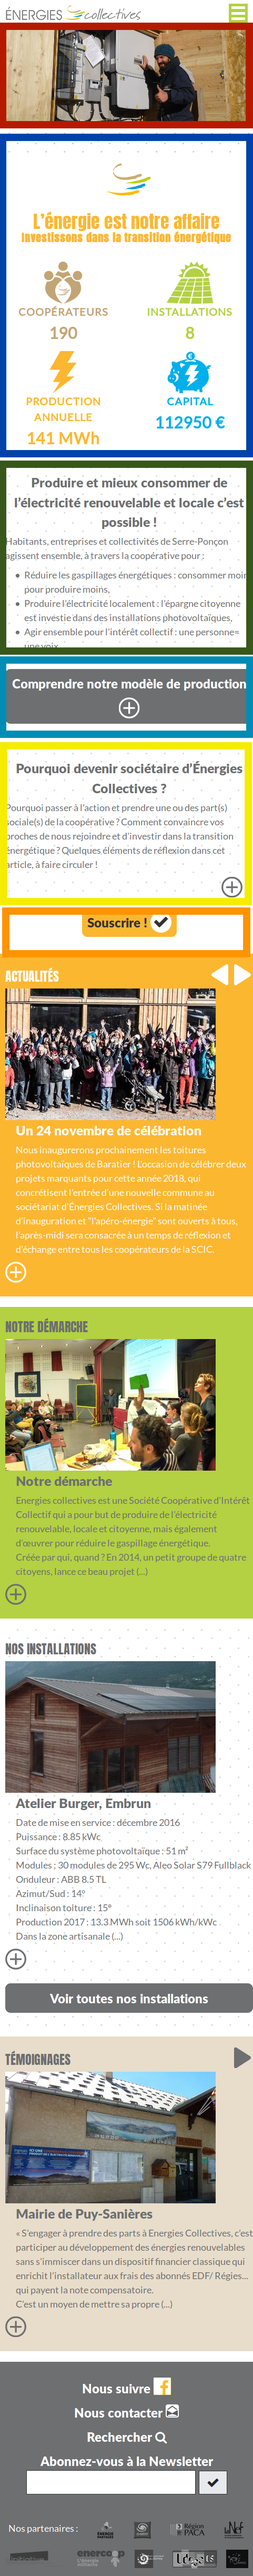
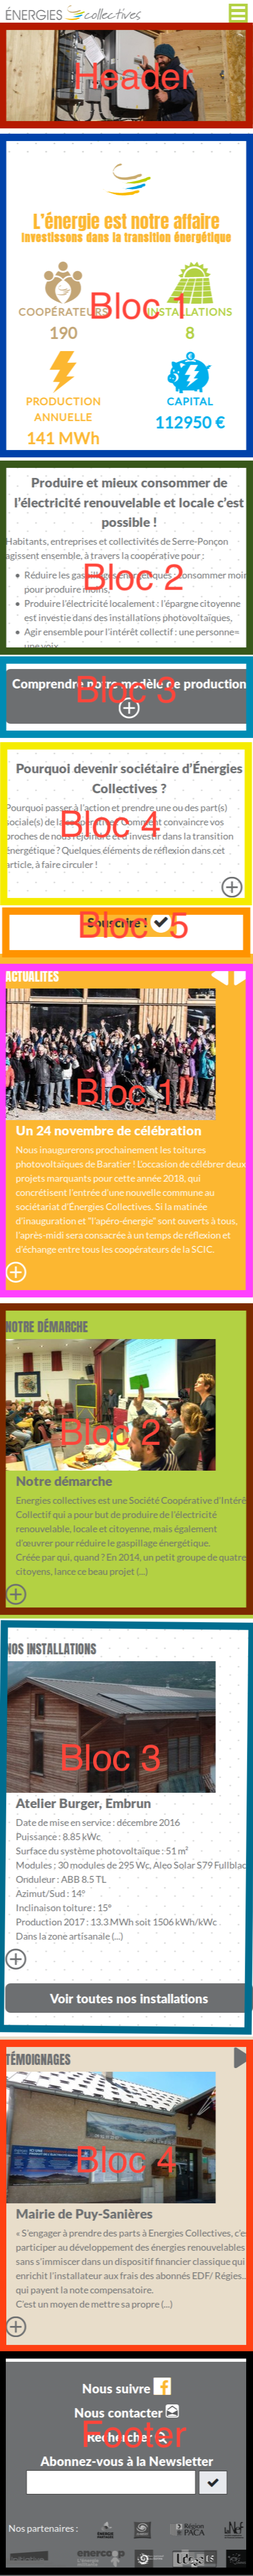
Correction beug hauteur MAIN + responsive entier du main ok + responsive bloc actualité ok

diff --git a/css/style.scss b/css/style.scss
@@ -4,10 +4,15 @@ $header_heightDesktop: 350px;
 $bloc1_heightDesktop: 400px;
 $bloc2_heightDesktop: 300px;
 $bloc3_heightDesktop: 100px;
+$bloc4_heightDesktop: 300px;
+$bloc5_heightDesktop: 100px;
+$bloc1-article_heightDesktop: 350px; 
 /* ------- STYLE POUR ECRAN TAILLE SMALL: min-width:0px ------- */
 @include respond-to("small") {
+
+/* --- HEADER --- */
     header{
-        
+
         min-height: 150px;
         max-height: $header_heightDesktop;
         height: 50vw;
@@ -17,9 +22,9 @@ $bloc3_heightDesktop: 100px;
             background-color: green;
         }
     }
+/* --- MAIN --- */
     .main{
         height: auto;
-        height: 250px;
 
         .contain{
             background-color: yellow;
@@ -52,11 +57,10 @@ $bloc3_heightDesktop: 100px;
             }
         }
 
-        //Bloc 3: Section CTA "Comprendre notre modèle de production"
+        //Bloc 3: Bouton CTA "Comprendre notre modèle de production"
         .bloc:nth-child(3) {
             background-color: paleturquoise;
-            height: 30vw;
-            //min-height: 10px;     
+            height: 30vw;   
             max-height: $bloc3_heightDesktop;
             
             // /!\ Uniquement afin de voir visuellement les blocs - à retirer /!\
@@ -65,11 +69,48 @@ $bloc3_heightDesktop: 100px;
                 height: 100%;
             }
         }
-
-
-
-        
+        //Bloc 4: Pourquoi devenir sociétaire
+        .bloc:nth-child(4) {
+            background-color: #FCFF6C;
+            height: 80vw;  
+            max-height: $bloc4_heightDesktop;
+            
+            // /!\ Uniquement afin de voir visuellement les blocs - à retirer /!\
+            .contain{
+                background-color: #FCFF6C;
+                height: 100%;
+            }
+        }
+        //Bloc 5: Bouton CTA "souscrire"
+        .bloc:nth-child(5) {
+            background-color: orange;
+            height: 30vw;
+            //min-height: 10px;     
+            max-height: $bloc5_heightDesktop;
+            
+            // /!\ Uniquement afin de voir visuellement les blocs - à retirer /!\
+            .contain{
+                background-color: orange;
+                height: 100%;
+            }
+        }    
     }
+/* --- ARTICLES --- */
+.articles{
+    .bloc:nth-child(1) {
+        background-color: blue;
+        //Hauteur en fonction width viewport et ses limites
+        height: 80vw;
+        min-height: 300px;
+        max-height: $bloc1-article_heightDesktop;
+        // /!\ Uniquement afin de voir visuellement les blocs - à retirer /!\
+        .contain{
+            background-color: blue;
+            height: 100%;
+        }            
+    }
+}
+
 }
 /* ------- STYLE POUR ECRAN TAILLE MEDIUM ------- */
 @include respond-to("medium") {
@@ -116,12 +157,22 @@ $bloc3_heightDesktop: 100px;
             }
         }
         .bloc:nth-child(4) {
-            background-color: yellow;
-            height: 100px;
+            background-color: #FCFF6C;
+            height: $bloc4_heightDesktop;
+            // /!\ Uniquement afin de voir visuellement les blocs - à retirer /!\
+            .contain{
+                background-color: yellow;
+                height: 100%;
+            }
         }
         .bloc:nth-child(5) {
             background-color: orange;
-            height: 50px;
+            height: $bloc5_heightDesktop;
+            // /!\ Uniquement afin de voir visuellement les blocs - à retirer /!\
+            .contain{
+                background-color: yellow;
+                height: 100%;
+            }
         }
     }
     .articles {
@@ -130,7 +181,7 @@ $bloc3_heightDesktop: 100px;
         //Contient le contenu
         .contain {
             background-color: red;
-            width: 65%;
+            max-width: map-get($breakpoints,medium);
             height: 100%;
             margin: 0 auto;
         }
@@ -141,7 +192,12 @@ $bloc3_heightDesktop: 100px;
         //Bloc 1: Actualités
         .bloc:nth-child(1) {
             background-color: blue;
-            height: 300px;
+            height: $bloc1-article_heightDesktop;
+            // /!\ Uniquement afin de voir visuellement les blocs - à retirer /!\
+            .contain{
+                background-color: yellow;
+                height: 100%;
+            }
         }
         //Bloc 2: Notre démarche
         .bloc:nth-child(2) {

diff --git a/css/style.css b/css/style.css
@@ -107,6 +107,7 @@ input[type='checkbox']:checked ~ nav {
 /* ------- MIXIN RACCOURCIS ------- */
 /* ------- STYLE POUR ECRAN TAILLE SMALL: min-width:0px ------- */
 @media (min-width: 0px) {
+  /* --- HEADER --- */
   header {
     min-height: 150px;
     max-height: 350px;
@@ -117,9 +118,9 @@ input[type='checkbox']:checked ~ nav {
     height: 40px;
     background-color: green;
   }
+  /* --- MAIN --- */
   .main {
     height: auto;
-    height: 250px;
   }
   .main .contain {
     background-color: yellow;
@@ -152,6 +153,35 @@ input[type='checkbox']:checked ~ nav {
   }
   .main .bloc:nth-child(3) .contain {
     background-color: paleturquoise;
+    height: 100%;
+  }
+  .main .bloc:nth-child(4) {
+    background-color: #FCFF6C;
+    height: 80vw;
+    max-height: 300px;
+  }
+  .main .bloc:nth-child(4) .contain {
+    background-color: #FCFF6C;
+    height: 100%;
+  }
+  .main .bloc:nth-child(5) {
+    background-color: orange;
+    height: 30vw;
+    max-height: 100px;
+  }
+  .main .bloc:nth-child(5) .contain {
+    background-color: orange;
+    height: 100%;
+  }
+  /* --- ARTICLES --- */
+  .articles .bloc:nth-child(1) {
+    background-color: blue;
+    height: 80vw;
+    min-height: 300px;
+    max-height: 350px;
+  }
+  .articles .bloc:nth-child(1) .contain {
+    background-color: blue;
     height: 100%;
   }
 }
@@ -196,12 +226,20 @@ input[type='checkbox']:checked ~ nav {
     height: 100%;
   }
   .main .bloc:nth-child(4) {
+    background-color: #FCFF6C;
+    height: 300px;
+  }
+  .main .bloc:nth-child(4) .contain {
     background-color: yellow;
-    height: 100px;
+    height: 100%;
   }
   .main .bloc:nth-child(5) {
     background-color: orange;
-    height: 50px;
+    height: 100px;
+  }
+  .main .bloc:nth-child(5) .contain {
+    background-color: yellow;
+    height: 100%;
   }
   .articles {
     height: auto;
@@ -209,7 +247,7 @@ input[type='checkbox']:checked ~ nav {
   }
   .articles .contain {
     background-color: red;
-    width: 65%;
+    max-width: 800px;
     height: 100%;
     margin: 0 auto;
   }
@@ -218,7 +256,11 @@ input[type='checkbox']:checked ~ nav {
   }
   .articles .bloc:nth-child(1) {
     background-color: blue;
-    height: 300px;
+    height: 350px;
+  }
+  .articles .bloc:nth-child(1) .contain {
+    background-color: yellow;
+    height: 100%;
   }
   .articles .bloc:nth-child(2) {
     background-color: pink;

diff --git a/index.html b/index.html
@@ -16,7 +16,7 @@
         <div class="menu">
             <h2 style="text-align: center;">Header: Menu</h2>
         </div>
-        <h1 style="text-align: center;">Header: Image slider</h1>
+        <h1 style="text-align: center;">Header: Image slidr</h1>
     </header>
     <div class="main">
         <!-- Bloc 1: Les energies -->
@@ -51,10 +51,10 @@
         </div>
     </div>
     <div class="articles">
-        <!--  -->
+        <!-- Bloc 1: Actualités -->
         <div class="bloc">
             <div class="contain">
-                <h1 style="text-align: center;">Bloc 1: Actualités</h1>
+                <h1 style="text-align: center;">Bloc 1: Nos actualités</h1>
             </div>
         </div>
         <!-- Bloc 2: Notre démarche -->
@@ -72,12 +72,13 @@
         <!-- Bloc 4: Témoignages -->
         <div class="bloc">
             <div class="contain">
-                <h1 style="text-align: center;">Bloc 4: Témoignages</h1>
+
             </div>
         </div>
     </div>
+    
     <footer>
-        <h1 style="text-align: center;color:white">Footer: Footer du site</h1>
+
     </footer>
 
 
